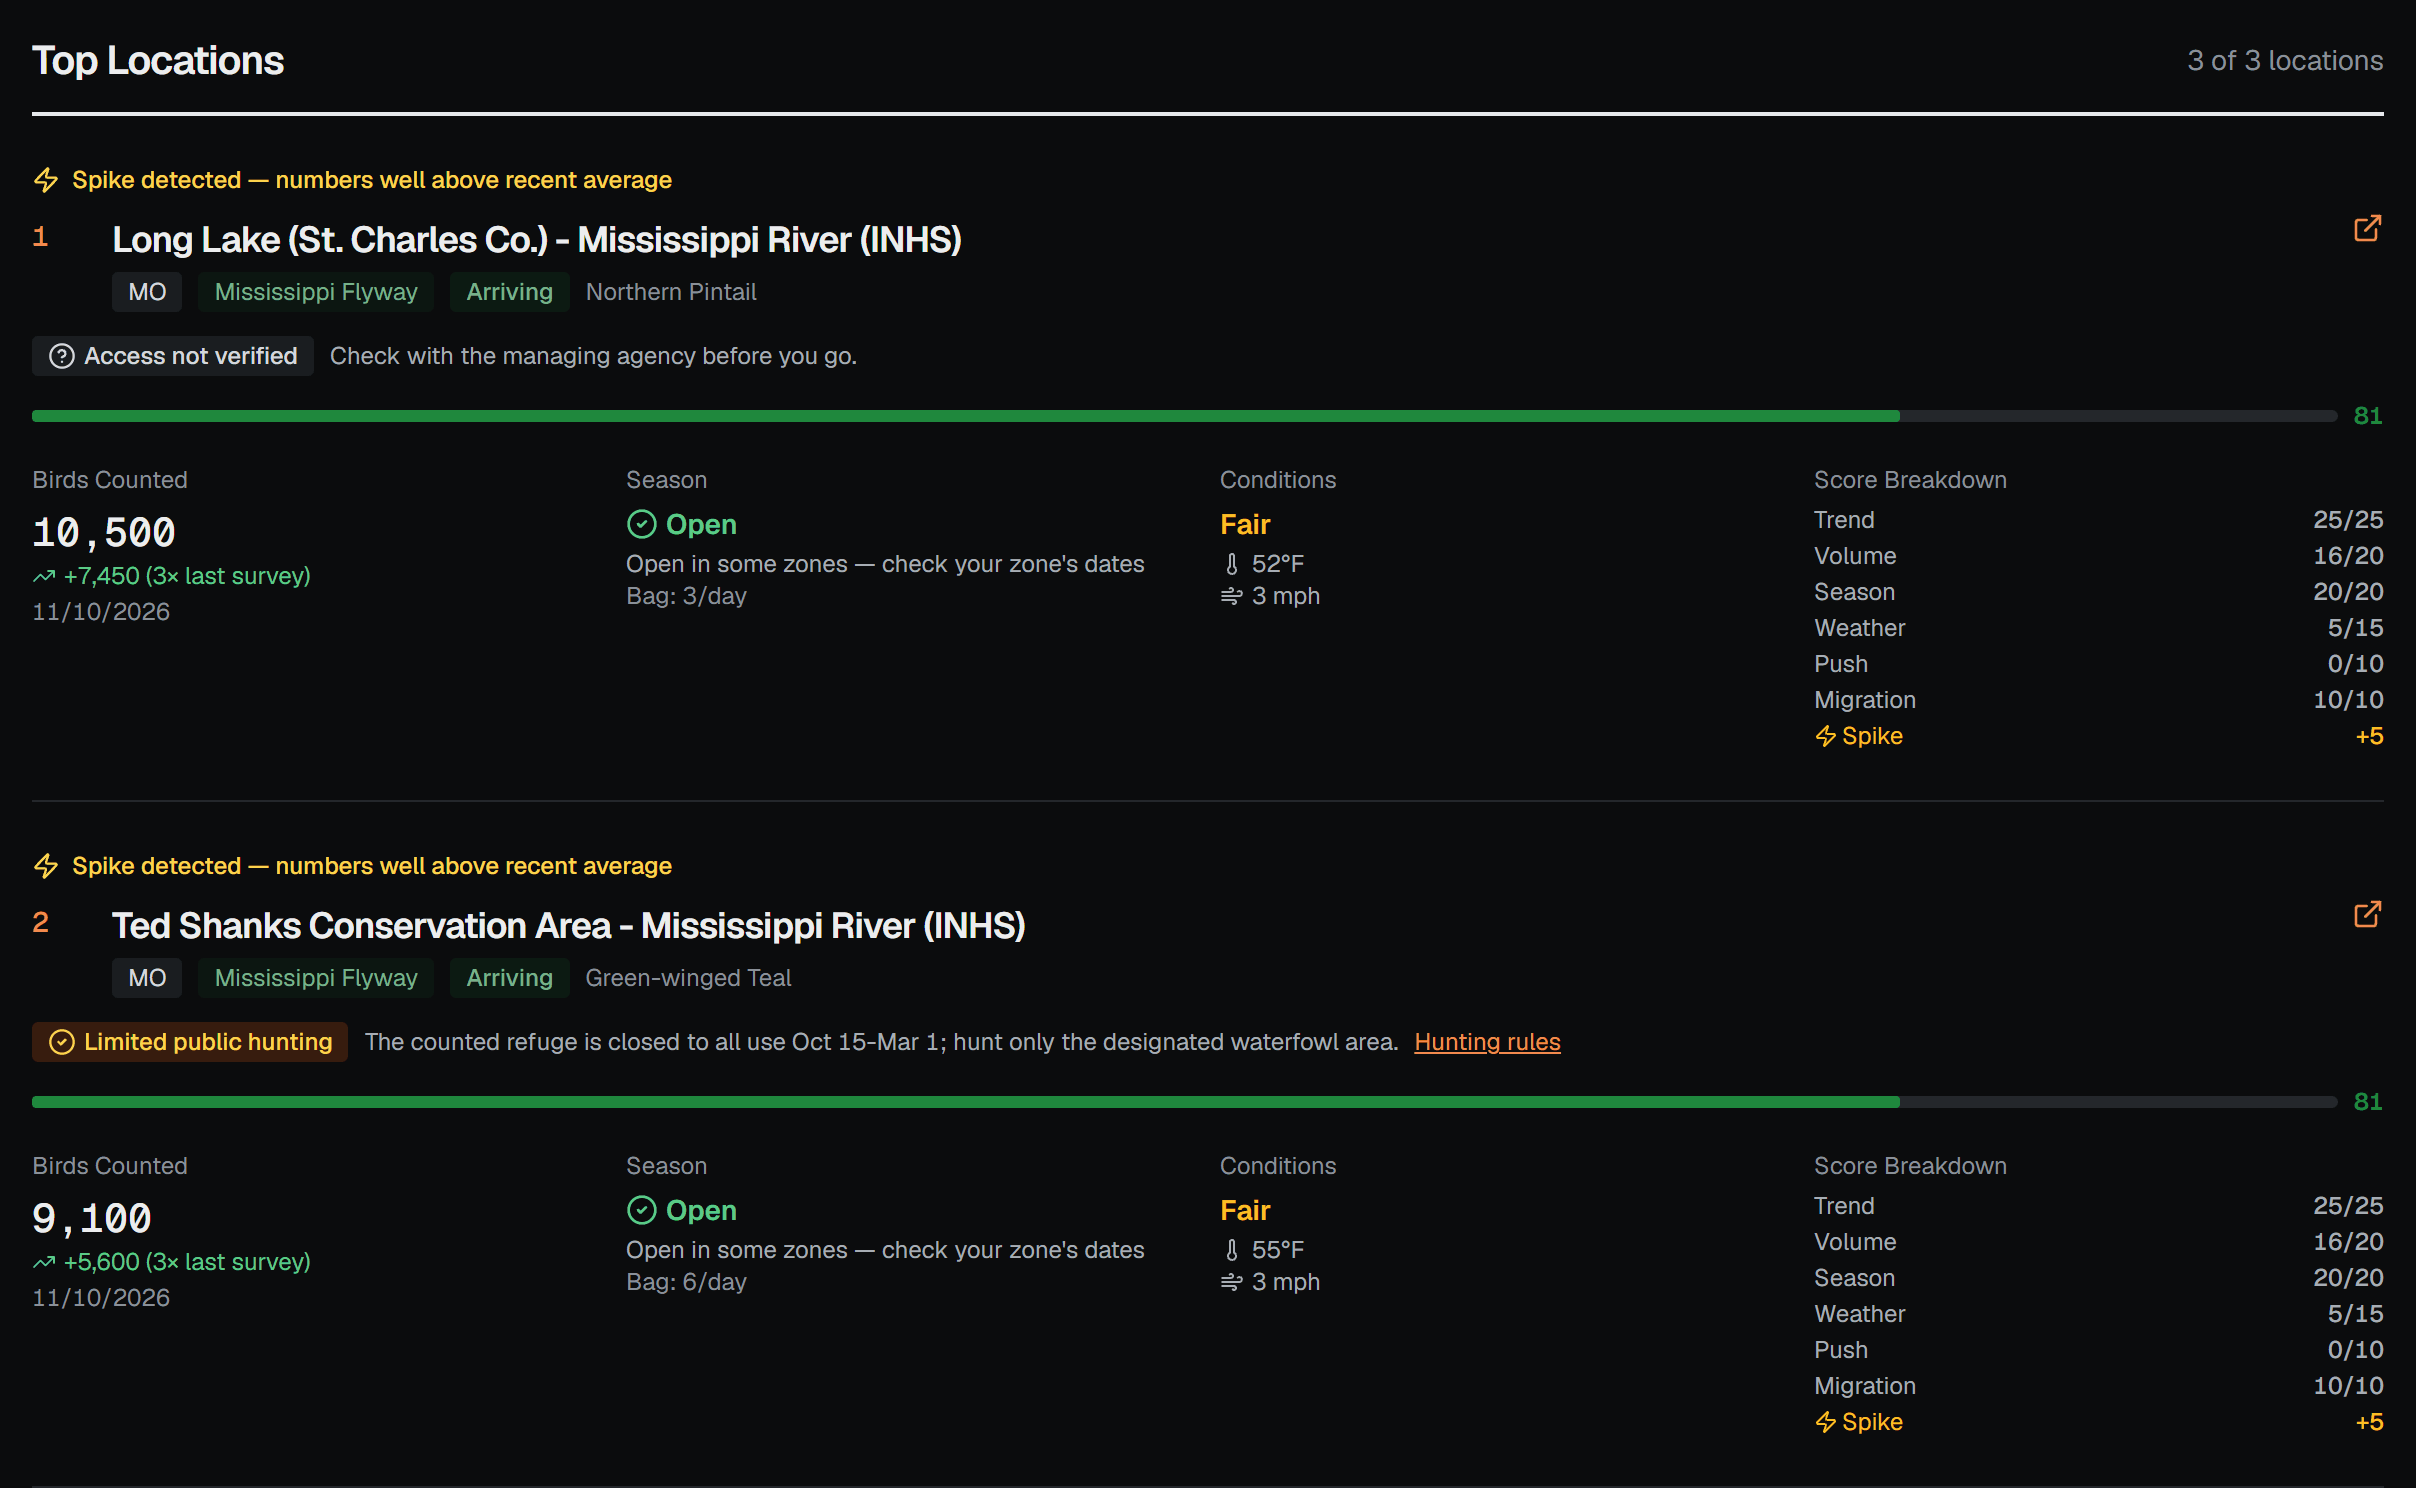
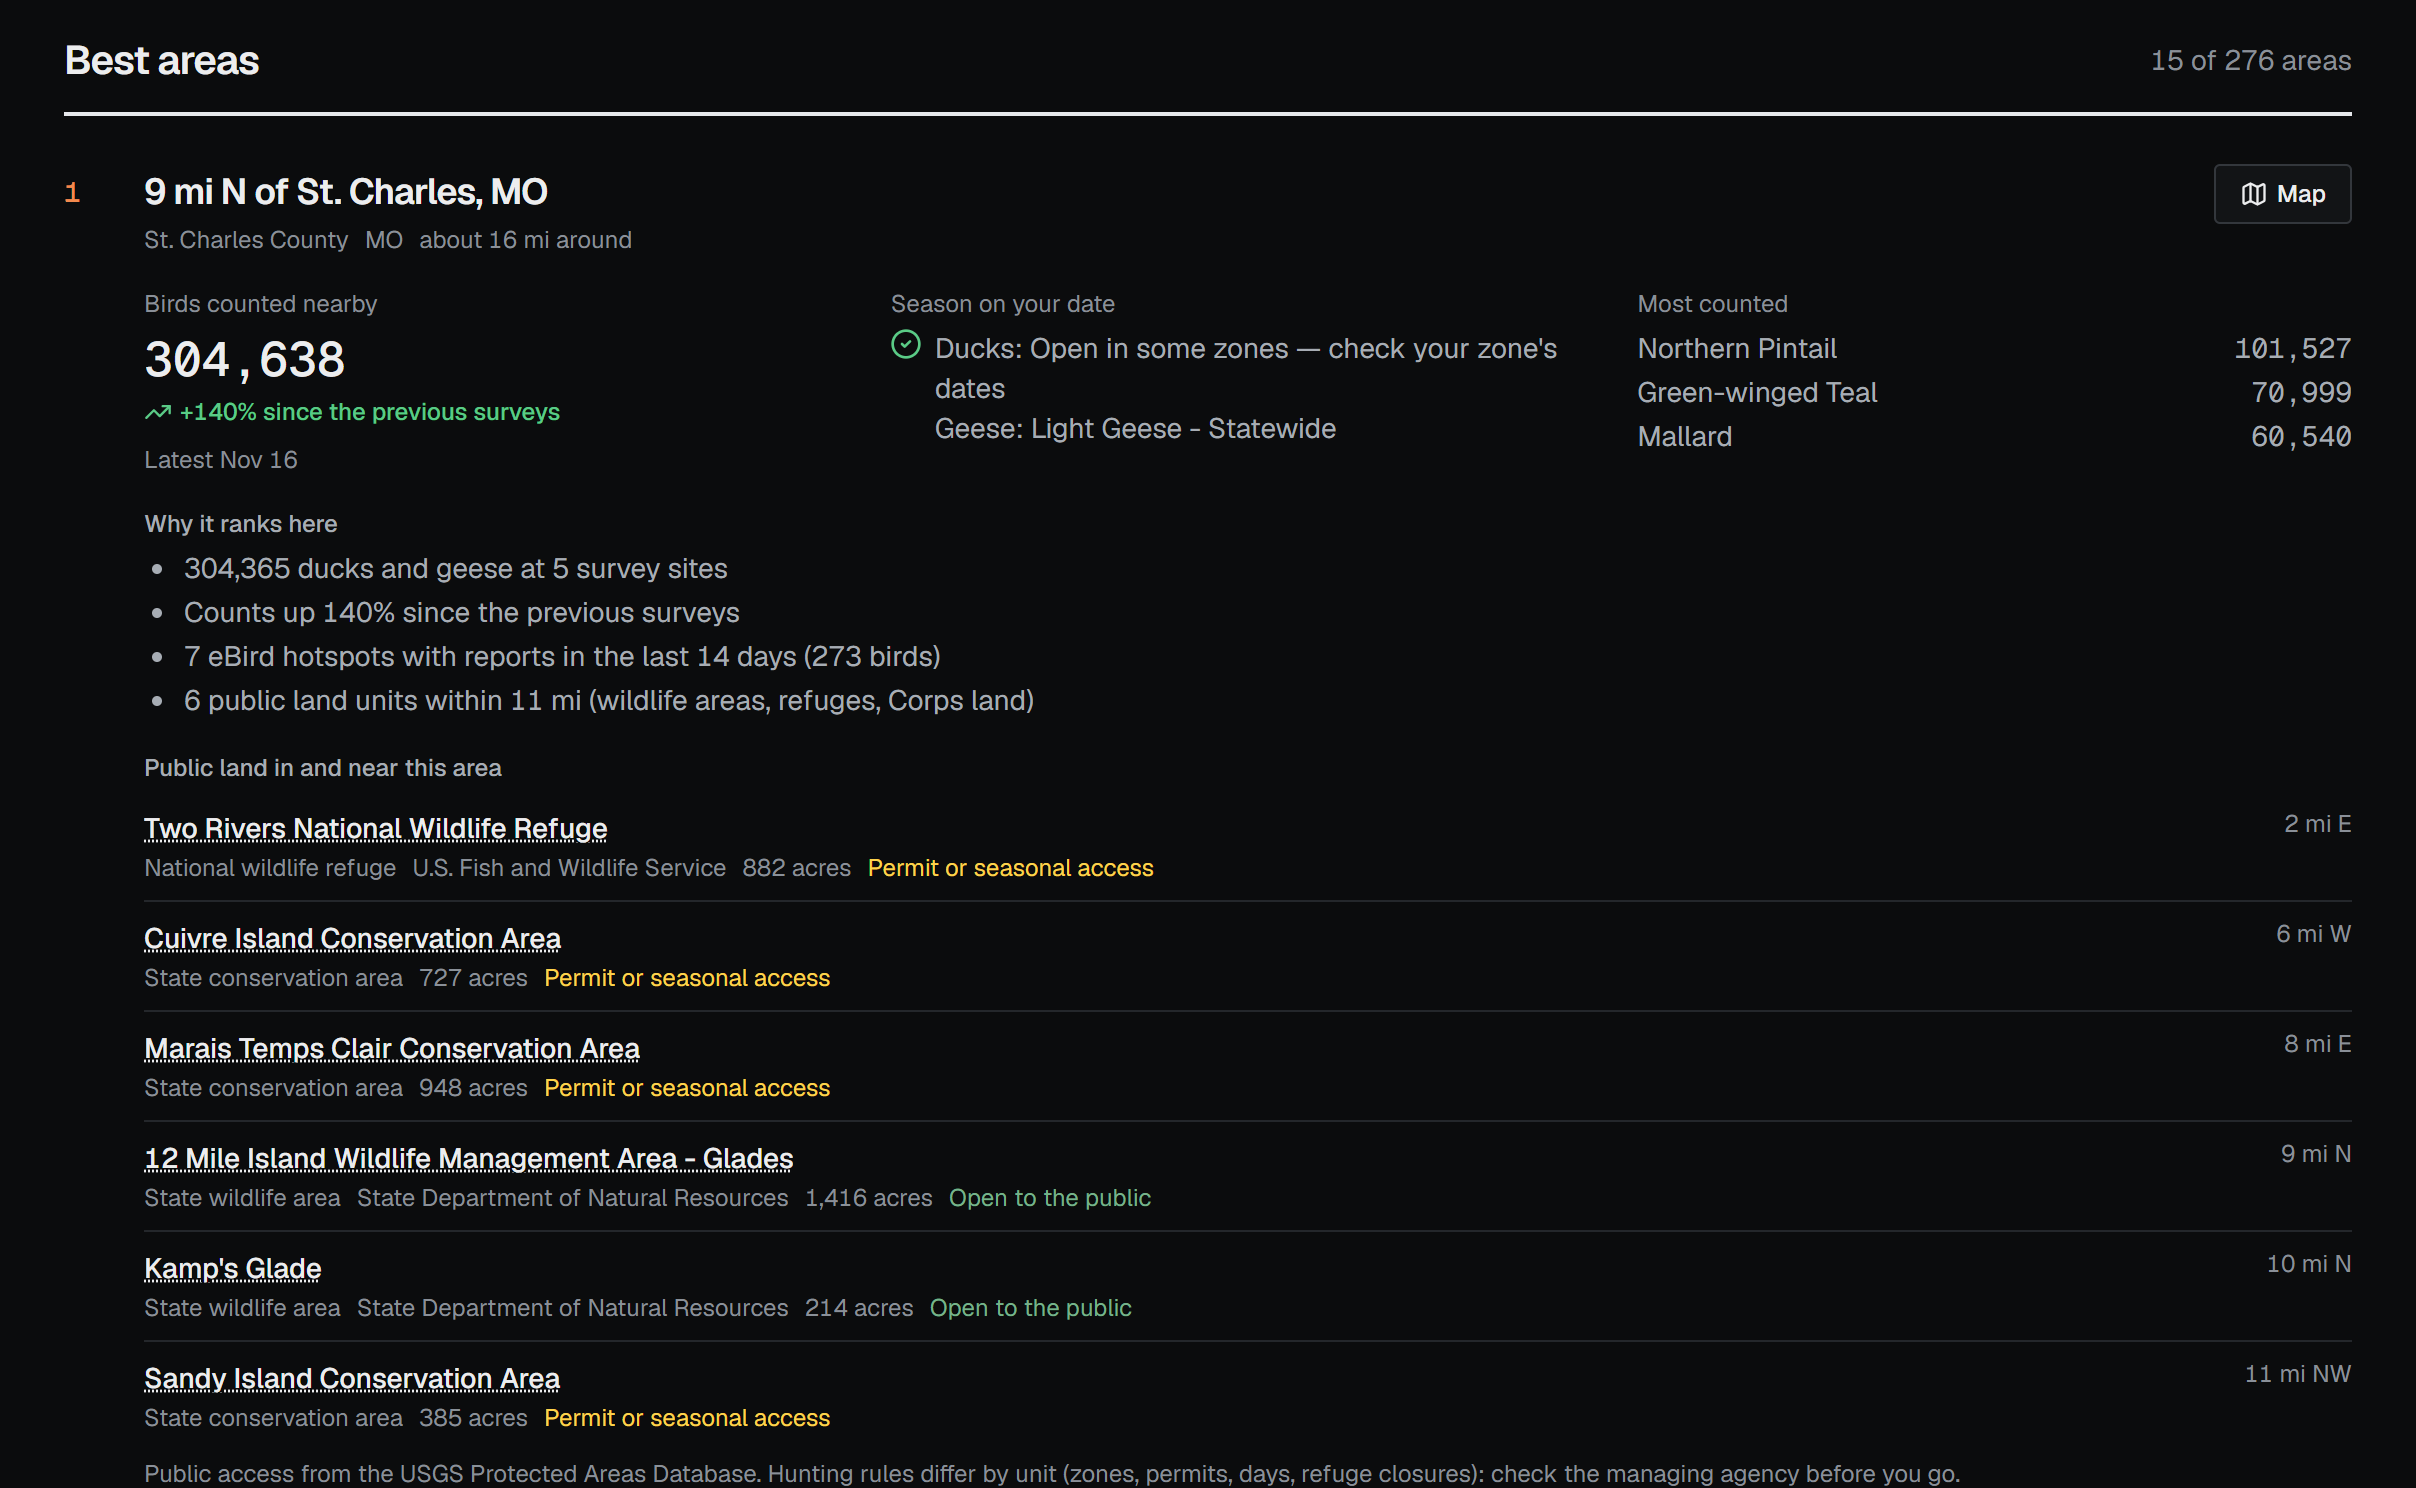
Update the README screenshot for Where to Hunt by area
Retake it from the live site after v1.3.0: the top area, 9 mi N of
St. Charles, MO, with its counts and change, season by zone, most-counted
species, why it ranks there and the public land nearby.

diff --git a/README.md b/README.md
@@ -80,7 +80,7 @@ population.
 <p align="center">
   <img width="49%" src=".github/screenshots/migration.png" alt="The migration page: ten square cards, one per section, each with a blurred preview; the Snapshot card is open below with birds counted, sites, the migration index, this weekend's call and the season comparison"/>
 &nbsp;
-  <img width="49%" src=".github/screenshots/where-to-hunt.png" alt="Where to Hunt: places ranked by opportunity score, with access notes, season status, conditions and the score breakdown on each card"/>
+  <img width="49%" src=".github/screenshots/where-to-hunt.png" alt="Where to Hunt: the best area, 9 mi N of St. Charles, MO, with birds counted and the change since the previous surveys, the season by zone, the most-counted species, why it ranks there, and the public land in and near it with acres, access and distance"/>
 </p>
 
 <p align="center">
